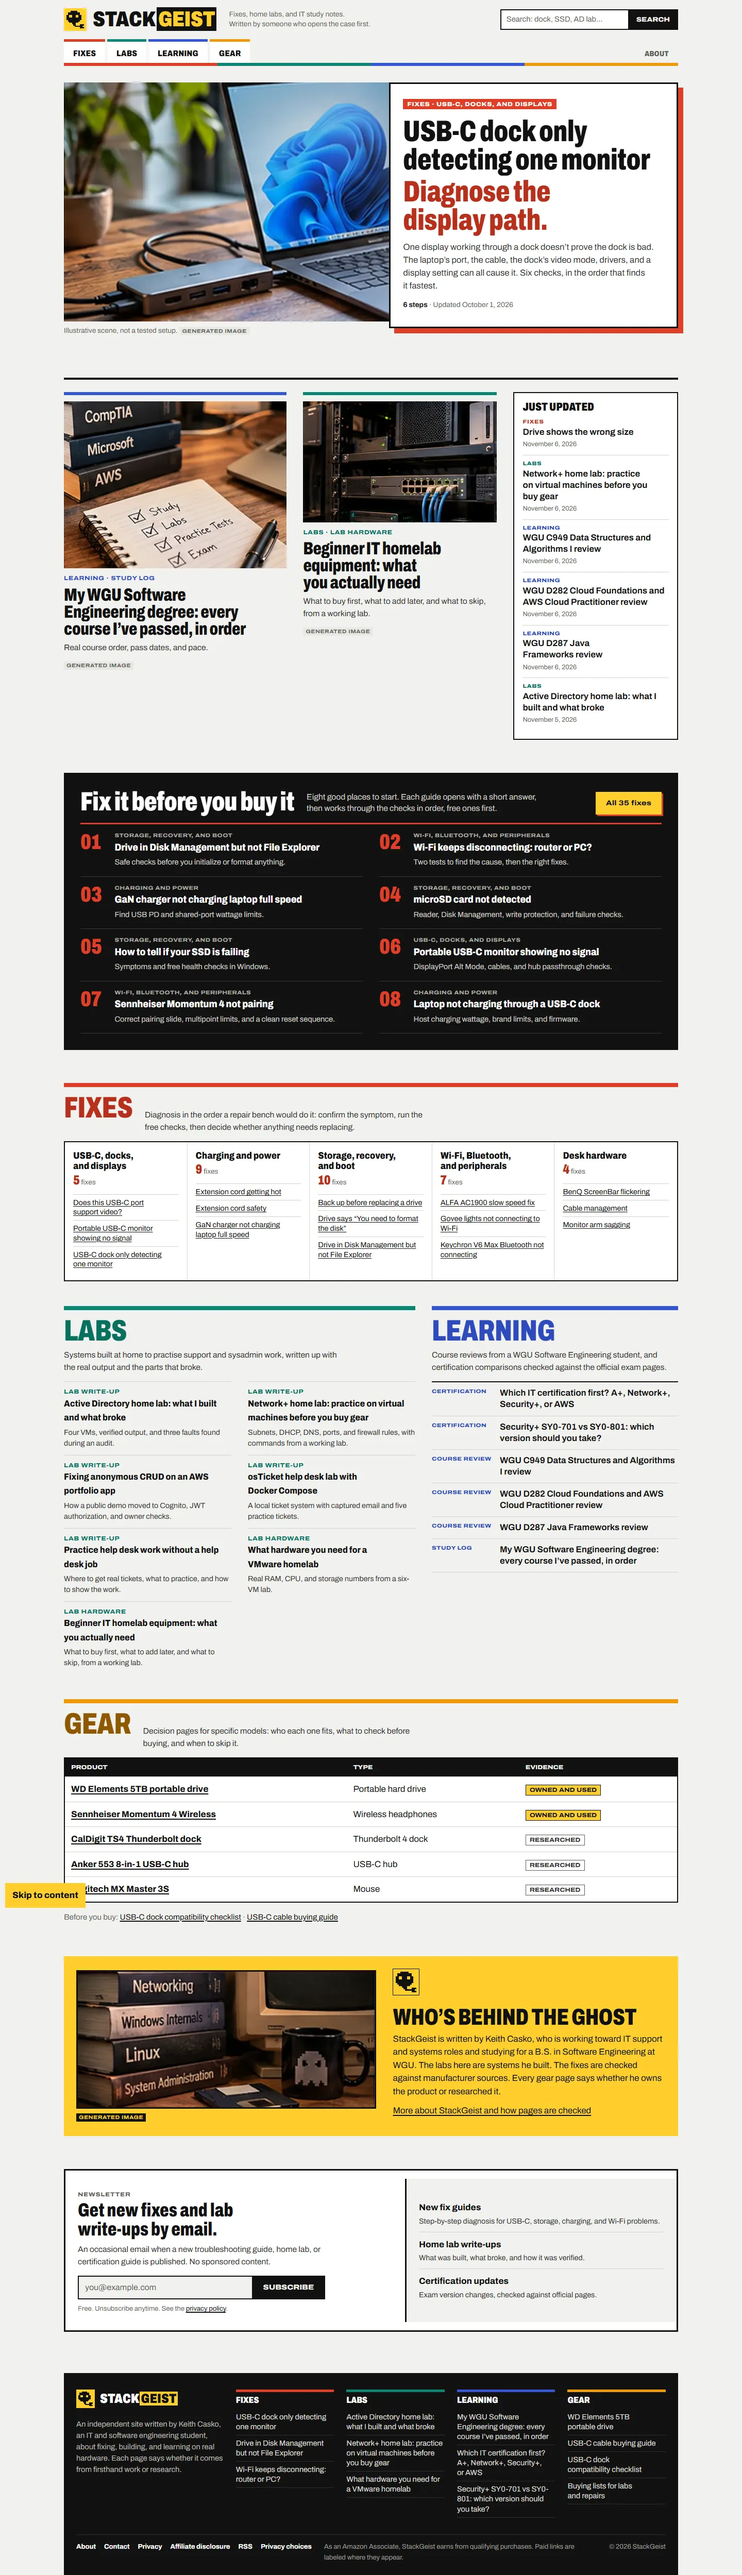
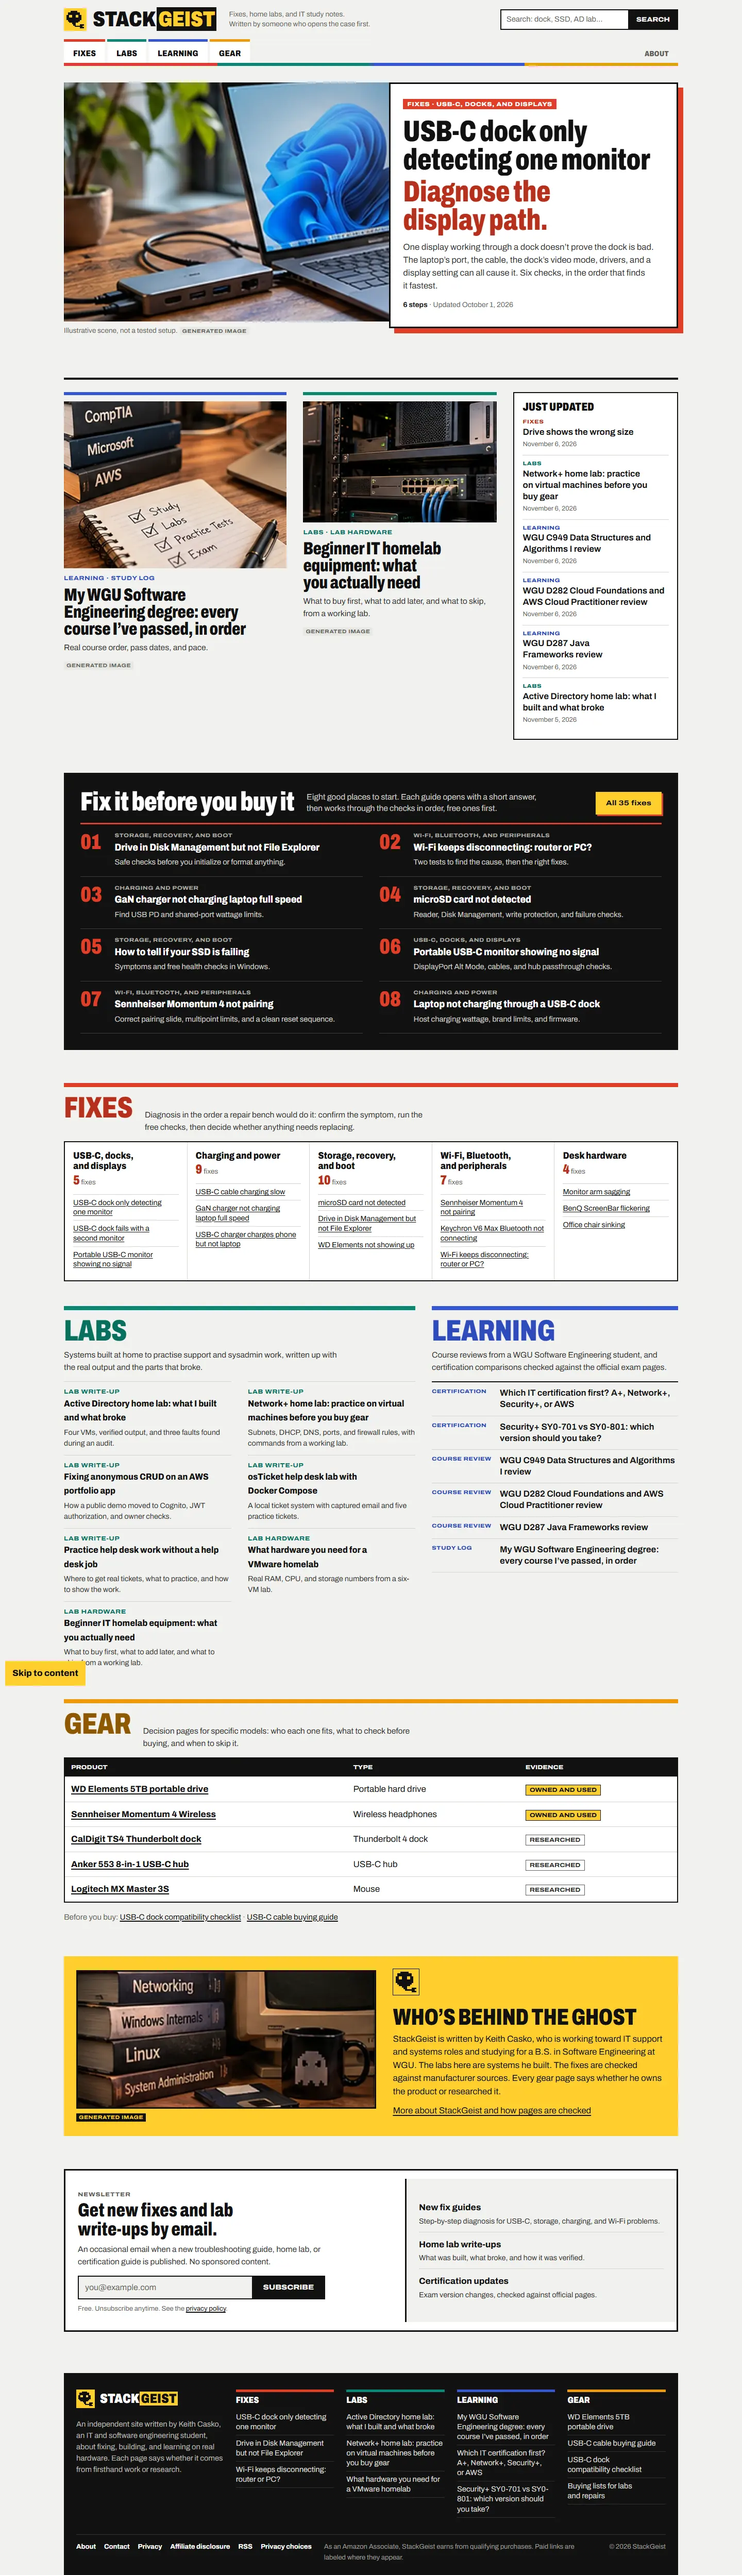
docs: rollout report, link checker, and updated screenshots

diff --git a/docs/overhaul/04-rollout-report.md b/docs/overhaul/04-rollout-report.md
@@ -1,0 +1,90 @@
+# Rollout report: new identity applied sitewide
+
+Branch `redesign/editorial-overhaul`. Nothing is deployed.
+
+## What changed
+
+**Articles (every guide, lab, certification page, and course review: 53 pages)**
+ContentLayout now applies the article treatment automatically to any catalog page with an article format. No page markup was rewritten for it. It adds:
+
+- Breadcrumbs built from the catalog: Fixes / topic, Learning / WGU degree, and so on.
+- The section slab, with the page's own kicker text kept.
+- A byline, last-updated date, step count, and format label.
+- A summary box labeled by format: Quick fix, Lab summary, The short version, At a glance, or Short answer.
+- Numbered blocks for "Step NN" sections and anchored headings.
+- A rail with the contents list and related pages. On phones the contents list sits under the summary.
+
+All of it is built at build time, so nothing shifts on load.
+
+**Section fronts**
+- **Fixes `/guides/`:**
+  - A topic index with counts.
+  - A dark numbered "Start here" panel.
+  - The fix-first diagram.
+  - A ruled two-column list for each topic, with dates.
+- **Labs `/labs/`:**
+  - A captioned generated photo.
+  - Write-ups numbered "Lab 01…".
+  - The topology diagram.
+  - Lab hardware guides.
+- **Learning `/learning/`:** WGU (firsthand) and certifications (researched), in separate lists.
+- **Gear `/gear/`:**
+  - Owned products shown larger, with an "Owned and used" stamp in place of a retailer photo.
+  - Researched products with self-hosted images.
+  - "Before you buy" guides.
+  - Buying lists.
+
+**Other templates**
+- **Topic hubs:** new header. The decorative topic art is gone.
+- **Product pages, buying lists, setups, and the evidence panel:**
+  - The section slab.
+  - Terminal labels removed. The `$ inspect --product`, `$ shoplist`, `#` and `//` prefixes are gone.
+  - Monospace labels set back in the main typeface.
+  - Square corners.
+  - Text set at 10–12 px raised to readable sizes.
+- **Breadcrumbs:** every hand-written breadcrumb now uses Fixes, Learning, and Buying lists, and the links have trailing slashes. The breadcrumb structured data uses the same names.
+- **Diagrams:**
+  - The illustration generator now draws ink line art on white with Geist-yellow highlights. All 18 SVGs were regenerated.
+  - The inline diagram components were recoloured to match.
+  - The Figure frame was restyled.
+- **404:** points to Fixes and Search instead of the archived gaming setups.
+
+**Removed**
+- Unused components: `ComparisonAffiliateCta`, `FeaturedSetup`, `Welcome`, `MindMap`.
+- Template assets: `src/assets/*.svg`.
+- Two tests that only read the deleted MindMap source.
+
+## Verification
+
+- `npm run build`: 197 pages, no errors.
+- `npm test`: 53/53 pass. Earlier there were 54; the difference is the removed MindMap test. Tests that checked old markup now check the same intent against the new structure.
+- `node scripts/check-links.mjs`, a new script: 10,117 internal references across 197 pages, 0 broken. It checks against built files and `_redirects`.
+- No horizontal overflow at 1440 px or 390 px on the sampled pages, which cover every template type.
+- Screenshots are in [review/](review/), at desktop and mobile widths, including dark mode for the homepage and USB-C article.
+
+## Missing image assets
+
+- Everything in [02-image-brief.md](02-image-brief.md) is still outstanding. The current generated images are about 980 px wide, which is soft on high-density screens.
+- A **real photo of the owned WD Elements drive** would replace the Gear stamp and the Amazon image the WD product page still hotlinks.
+- A **real photo of the home lab** would let the Labs front show the actual lab instead of a generated rack.
+- **Real screenshots** for the AD lab (ADUC, DNS) and the Network+ lab outputs.
+
+## Unresolved concerns
+
+1. **The catalog is now the source of truth.** A new page has to be added to `src/data/catalog.ts` before it appears on the fronts, in search, in related links, or in the footer. `src/data/labs.ts` still feeds the RSS feed, so RSS has a second list to keep in step.
+2. **Old pages only got base styling.** About 50 archived gear product pages and the noindexed setups pages inherit the new styling, but their layouts weren't reviewed one by one. They are noindexed. The setups pages still get Pinterest traffic.
+3. **WD product page:** it still hotlinks its product image from `m.media-amazon.com`.
+4. **Retro-desk image:** the pixel ghost on the mug resembles an arcade character.
+5. **Copy:** no content was rewritten or invented in this pass. Phase 8 (content cleanup) is not done, including thin kits and stale configurations.
+
+## Deployment readiness
+
+Ready for review on a preview deploy. The build is clean, tests pass, there are no broken internal links, every route is kept, and the redirects are unchanged.
+
+To publish:
+
+```bash
+npm run deploy
+```
+
+That runs `astro build && wrangler pages deploy`. Run it only once you've approved it. A Cloudflare Pages preview branch deploy is the safer first step.
